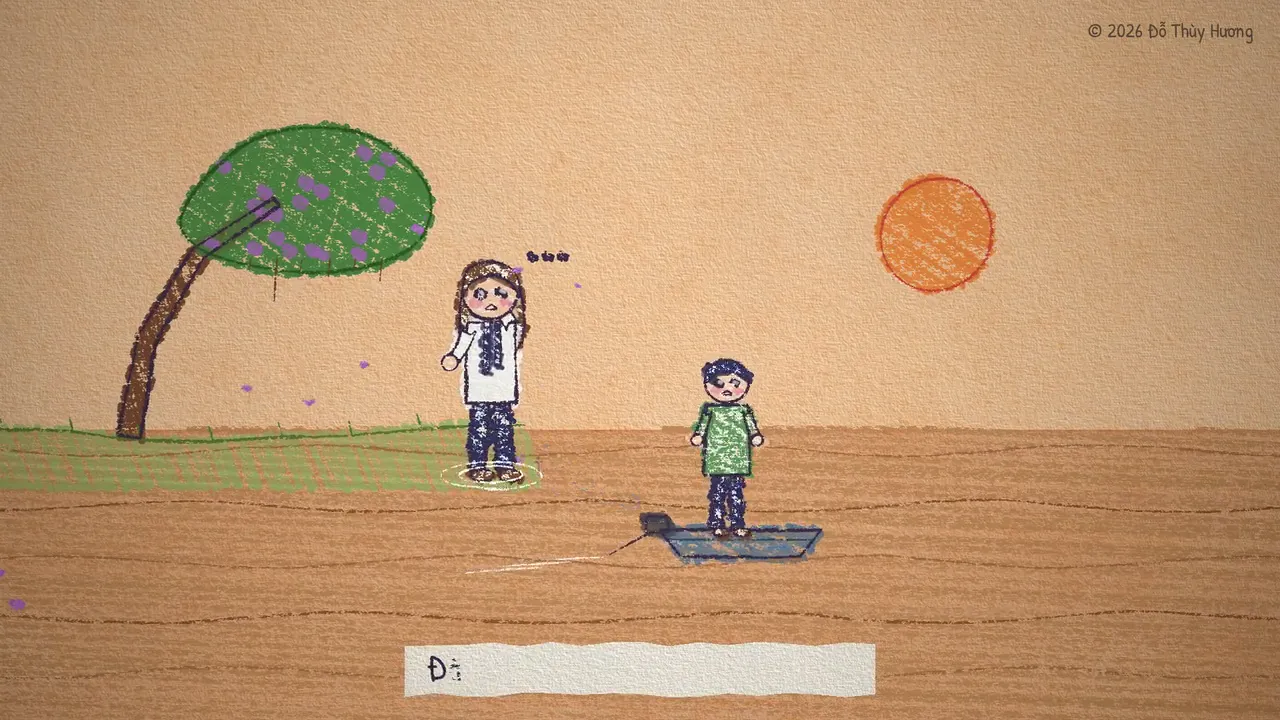
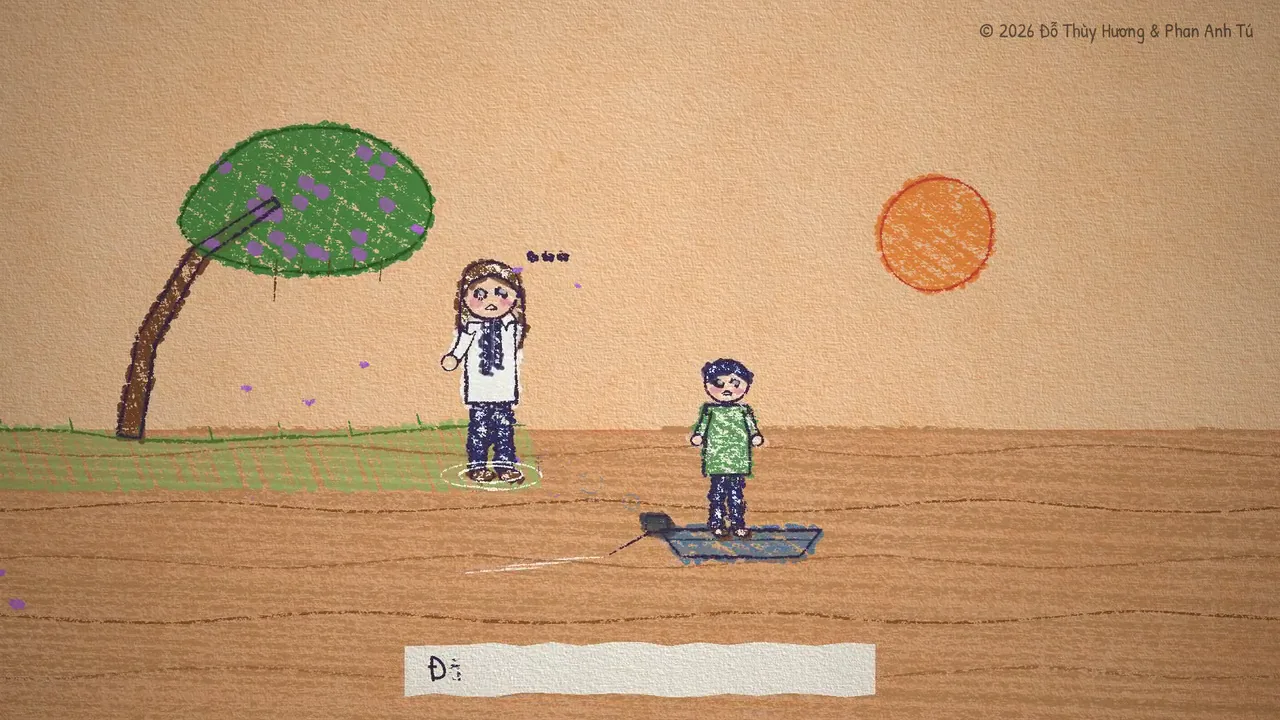
Nhạc: MV «Bến Phù Sa» tranh vẽ trỏ sang bản mới có bản quyền ghi chung
Bản đăng lại (NNBJqyldm4Y) ghi «© 2026 Đỗ Thùy Hương & Phan Anh Tú»; ảnh bìa cắt lại
từ bản ấy. Đã kiểm: check-site.py đạt. sw.js: jshuong-v242.

diff --git a/music.html b/music.html
@@ -2203,7 +2203,7 @@ Ta trở về bờ này</p>
       </figcaption>
     </figure>
     <figure class="songclip" style="margin-top:18px">
-      <button type="button" class="mv-yt" data-yt="FNurwZsfFjM">
+      <button type="button" class="mv-yt" data-yt="NNBJqyldm4Y">
         <img src="assets/video/mv-ben-phu-sa-tranh-ve-poster.webp" width="1280" height="720" loading="lazy" decoding="async"
              alt="Ảnh bìa MV «Bến Phù Sa» bản tranh vẽ: cây bần, cô gái đứng trên bờ, chàng trai trên xuồng, mặt trời cam">
         <span class="mv-play" aria-hidden="true">&#9654;</span>

diff --git a/sw.js b/sw.js
@@ -1,5 +1,5 @@
 /* Service worker - Je m'appelle Hương (trang học thuật cá nhân) */
-const CACHE = 'jshuong-v241';
+const CACHE = 'jshuong-v242';
 const CORE = [
   './',
   'index.html',
